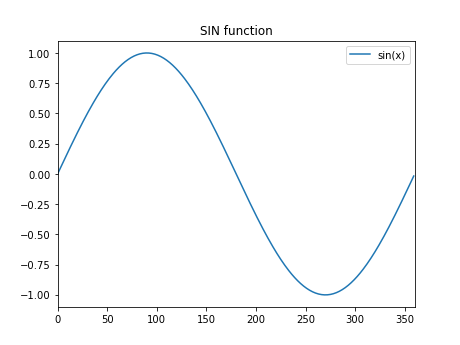
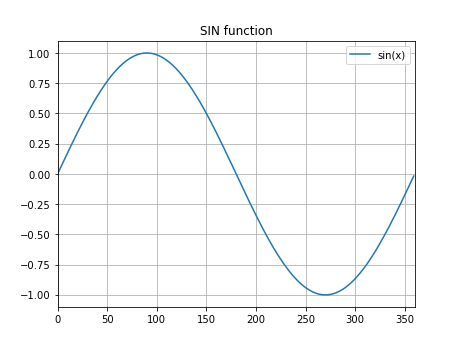
python x & y label

diff --git a/figure/glob.py b/figure/glob.py
@@ -1,0 +1,47 @@
+# _*_ coding:utf-8 _*_
+
+import glob
+
+
+import os
+disk = os.statvfs("/")
+
+totalspace = disk.f_bsize * disk.f_blocks;# byte
+
+totalspaceinKB = disk.f_bsize * disk.f_blocks / 1024 # KB
+
+
+totalspaceinMB = totalspaceinKB / 1024 # MB
+
+totalspaceinGB = totalspaceinMB / 1024 # GB
+
+
+
+
+print totalspace
+
+print totalspaceinKB
+
+print totalspaceinMB
+
+print totalspaceinGB
+
+
+'''
+在MAC OS & LINUX 获取磁盘空间大小
+
+
+import os
+disk = os.statvfs("/")
+freespace = disk.f_bsize * f_blocks;
+
+'''
+
+
+
+#png_files = glob.glob("*.png")
+
+
+
+
+

diff --git a/cos2.py b/cos2.py
@@ -1,0 +1,29 @@
+import numpy as np
+import matplotlib.pyplot as pt
+
+
+
+x = np.arange(0,360)
+
+y = np.sin(2*x * np.pi / 180.0)
+
+z = np.cos(x * np.pi / 180.0)
+
+
+
+pt.plot(x,y,color="blue",label="SIN(2X)")
+pt.plot(x,z,color="red",label = "COS(X)")
+
+pt.xlim(0,360)
+pt.ylim(-1.2,1.2)
+pt.xlabel("Degree")
+pt.ylabel("Value")
+
+pt.title("SIN & COS function")
+pt.legend()
+
+pt.show()
+
+pt.savefig("figure/2.png",dpi=80)
+
+

diff --git a/cos.py b/cos.py
@@ -1,0 +1,26 @@
+import numpy as np
+import matplotlib.pyplot as pt
+
+
+
+x = np.arange(0,360)
+
+y = np.sin(x * np.pi / 180.0)
+
+z = np.cos(x * np.pi / 180.0)
+
+
+
+pt.plot(x,y,color="blue")
+pt.plot(x,z,color="red")
+
+pt.xlim(0,360)
+pt.ylim(-1.2,1.2)
+pt.title("SIN & COS function")
+'''
+    pt.show()
+'''
+
+pt.savefig("figure/2.png",dpi=80)
+
+

diff --git a/sin.py b/sin.py
@@ -9,15 +9,22 @@ y = np.sin(x * np.pi/180.0)
 
 pt.plot(x,y,label="sin(x)")
 
+#pt.plot(x,y)#label="sin(x)")
+
+
 pt.xlim(0,360)
 pt.ylim(-1.1,1.1)
 
 pt.title("SIN function")
 pt.legend()
 
+pt.grid(True)
+
+
 pt.savefig("figure/1.png",dpi=72)
 
-pt.grid()
+
+
 pt.show()
 
 
